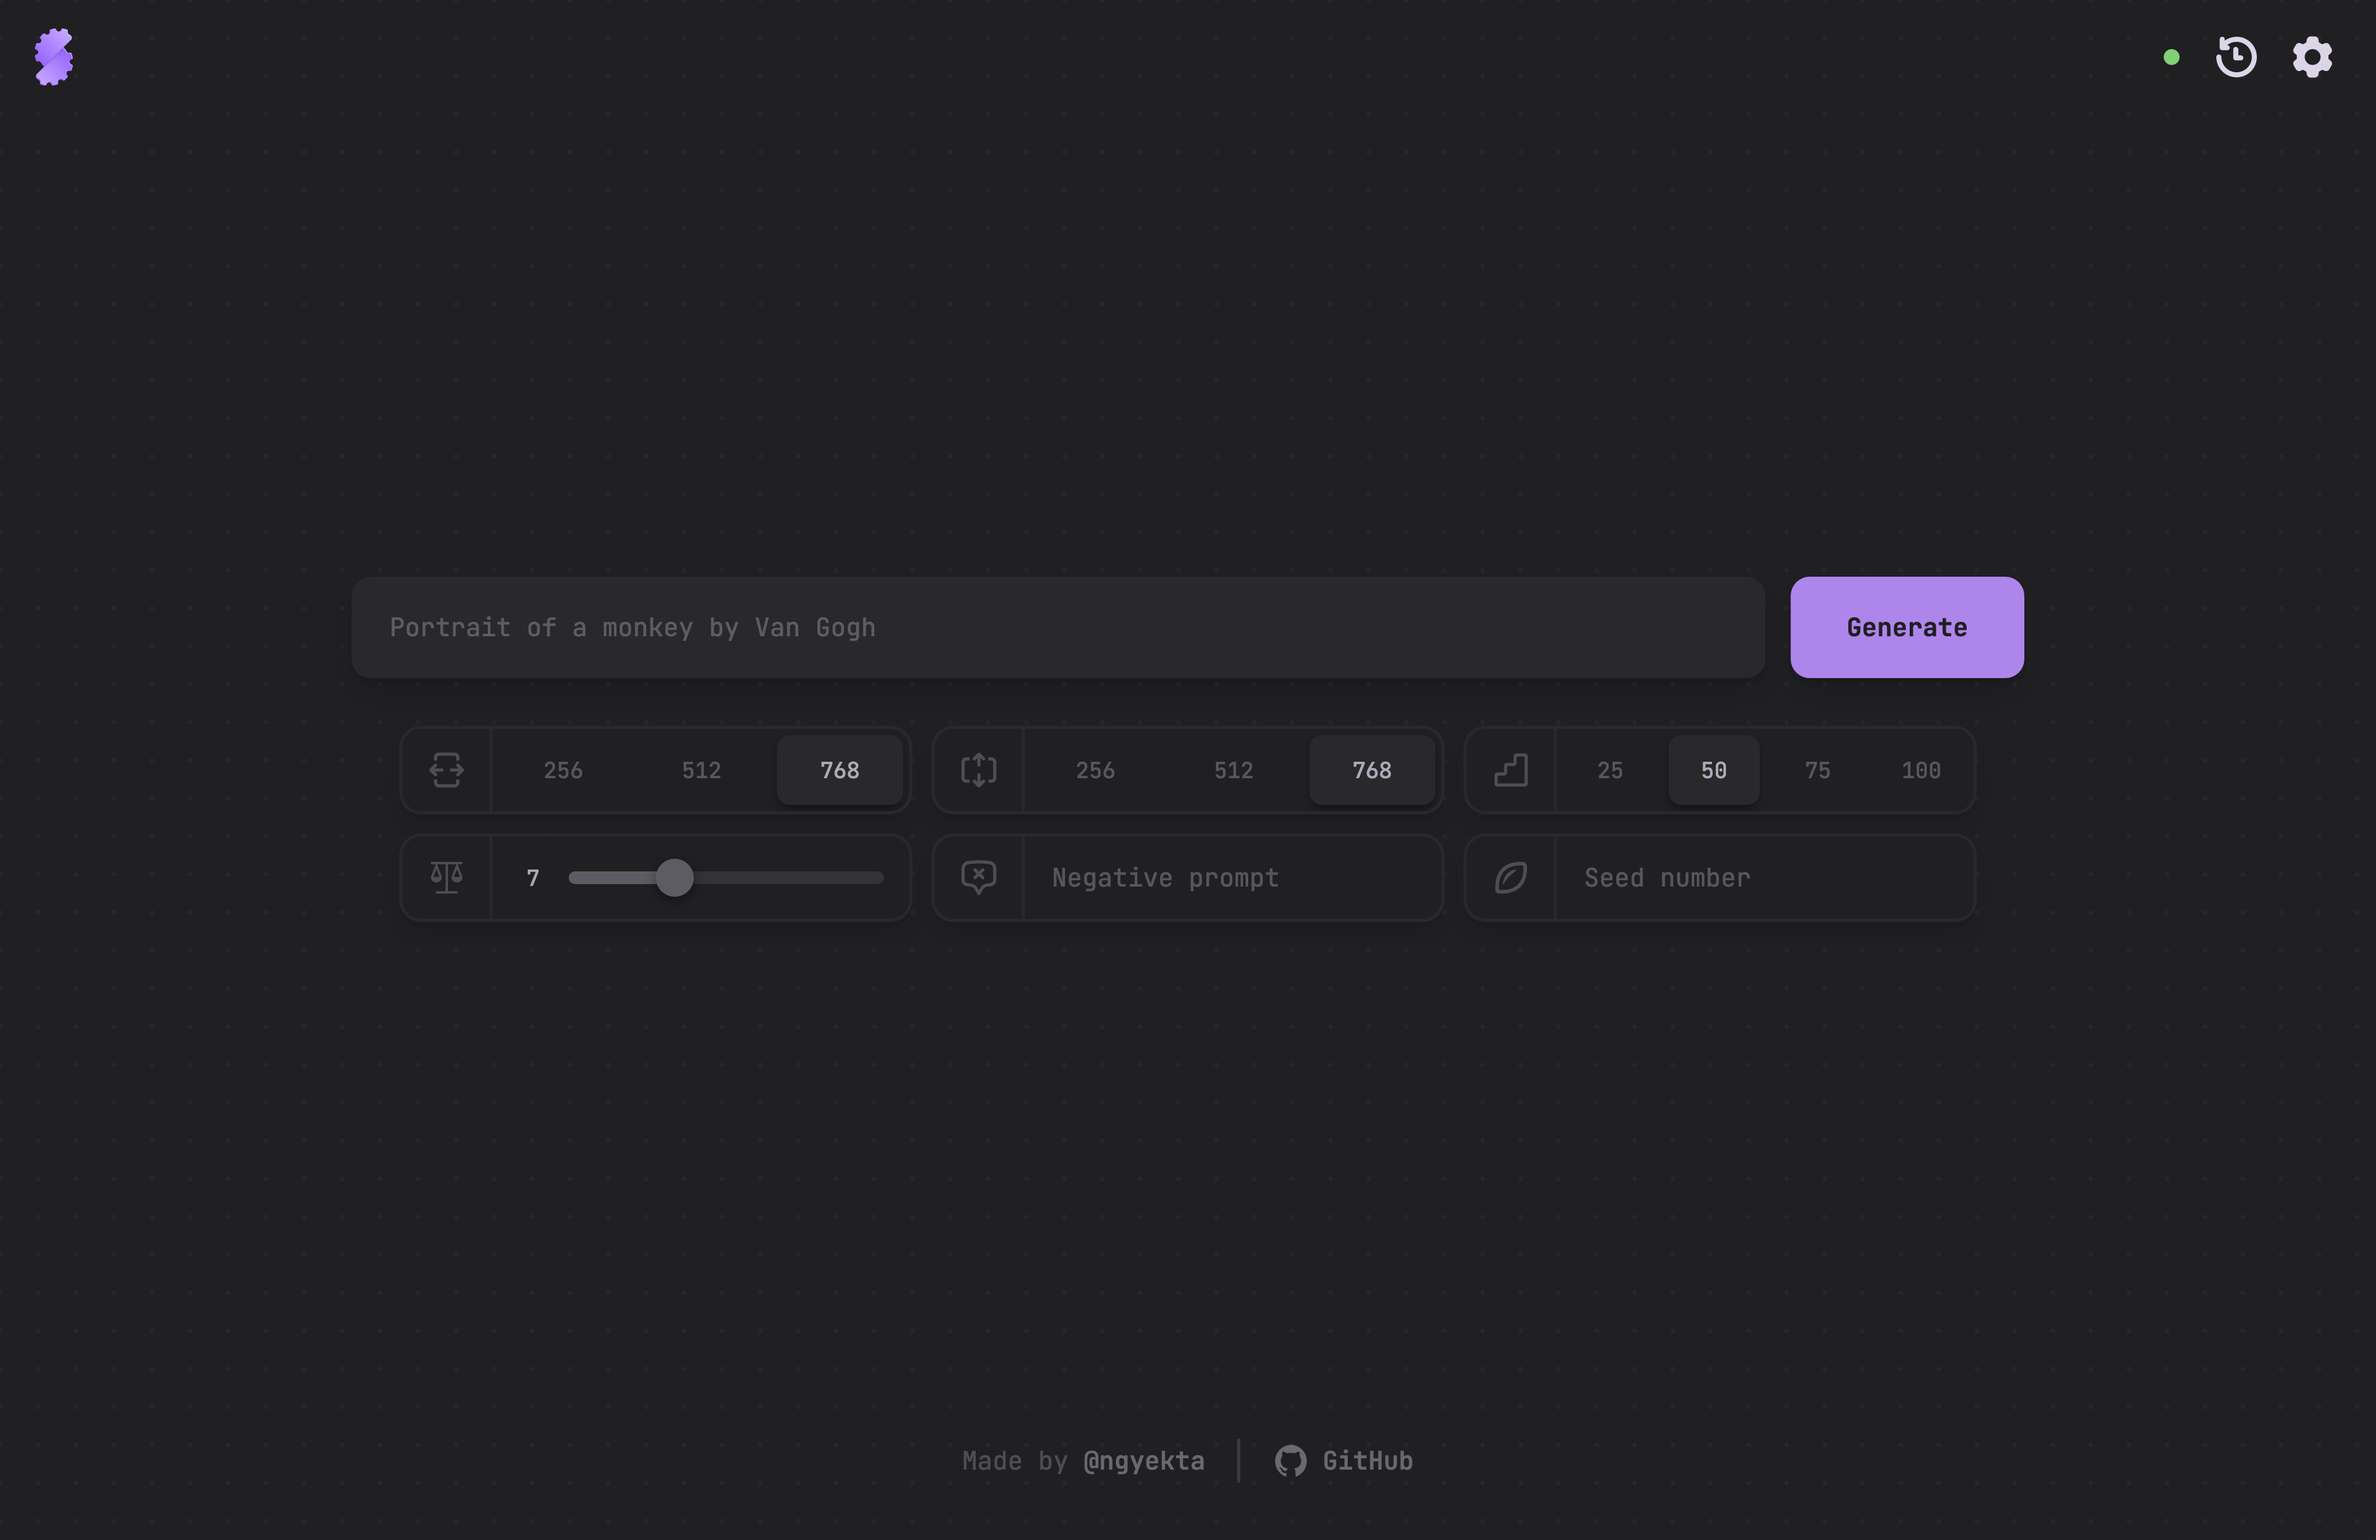
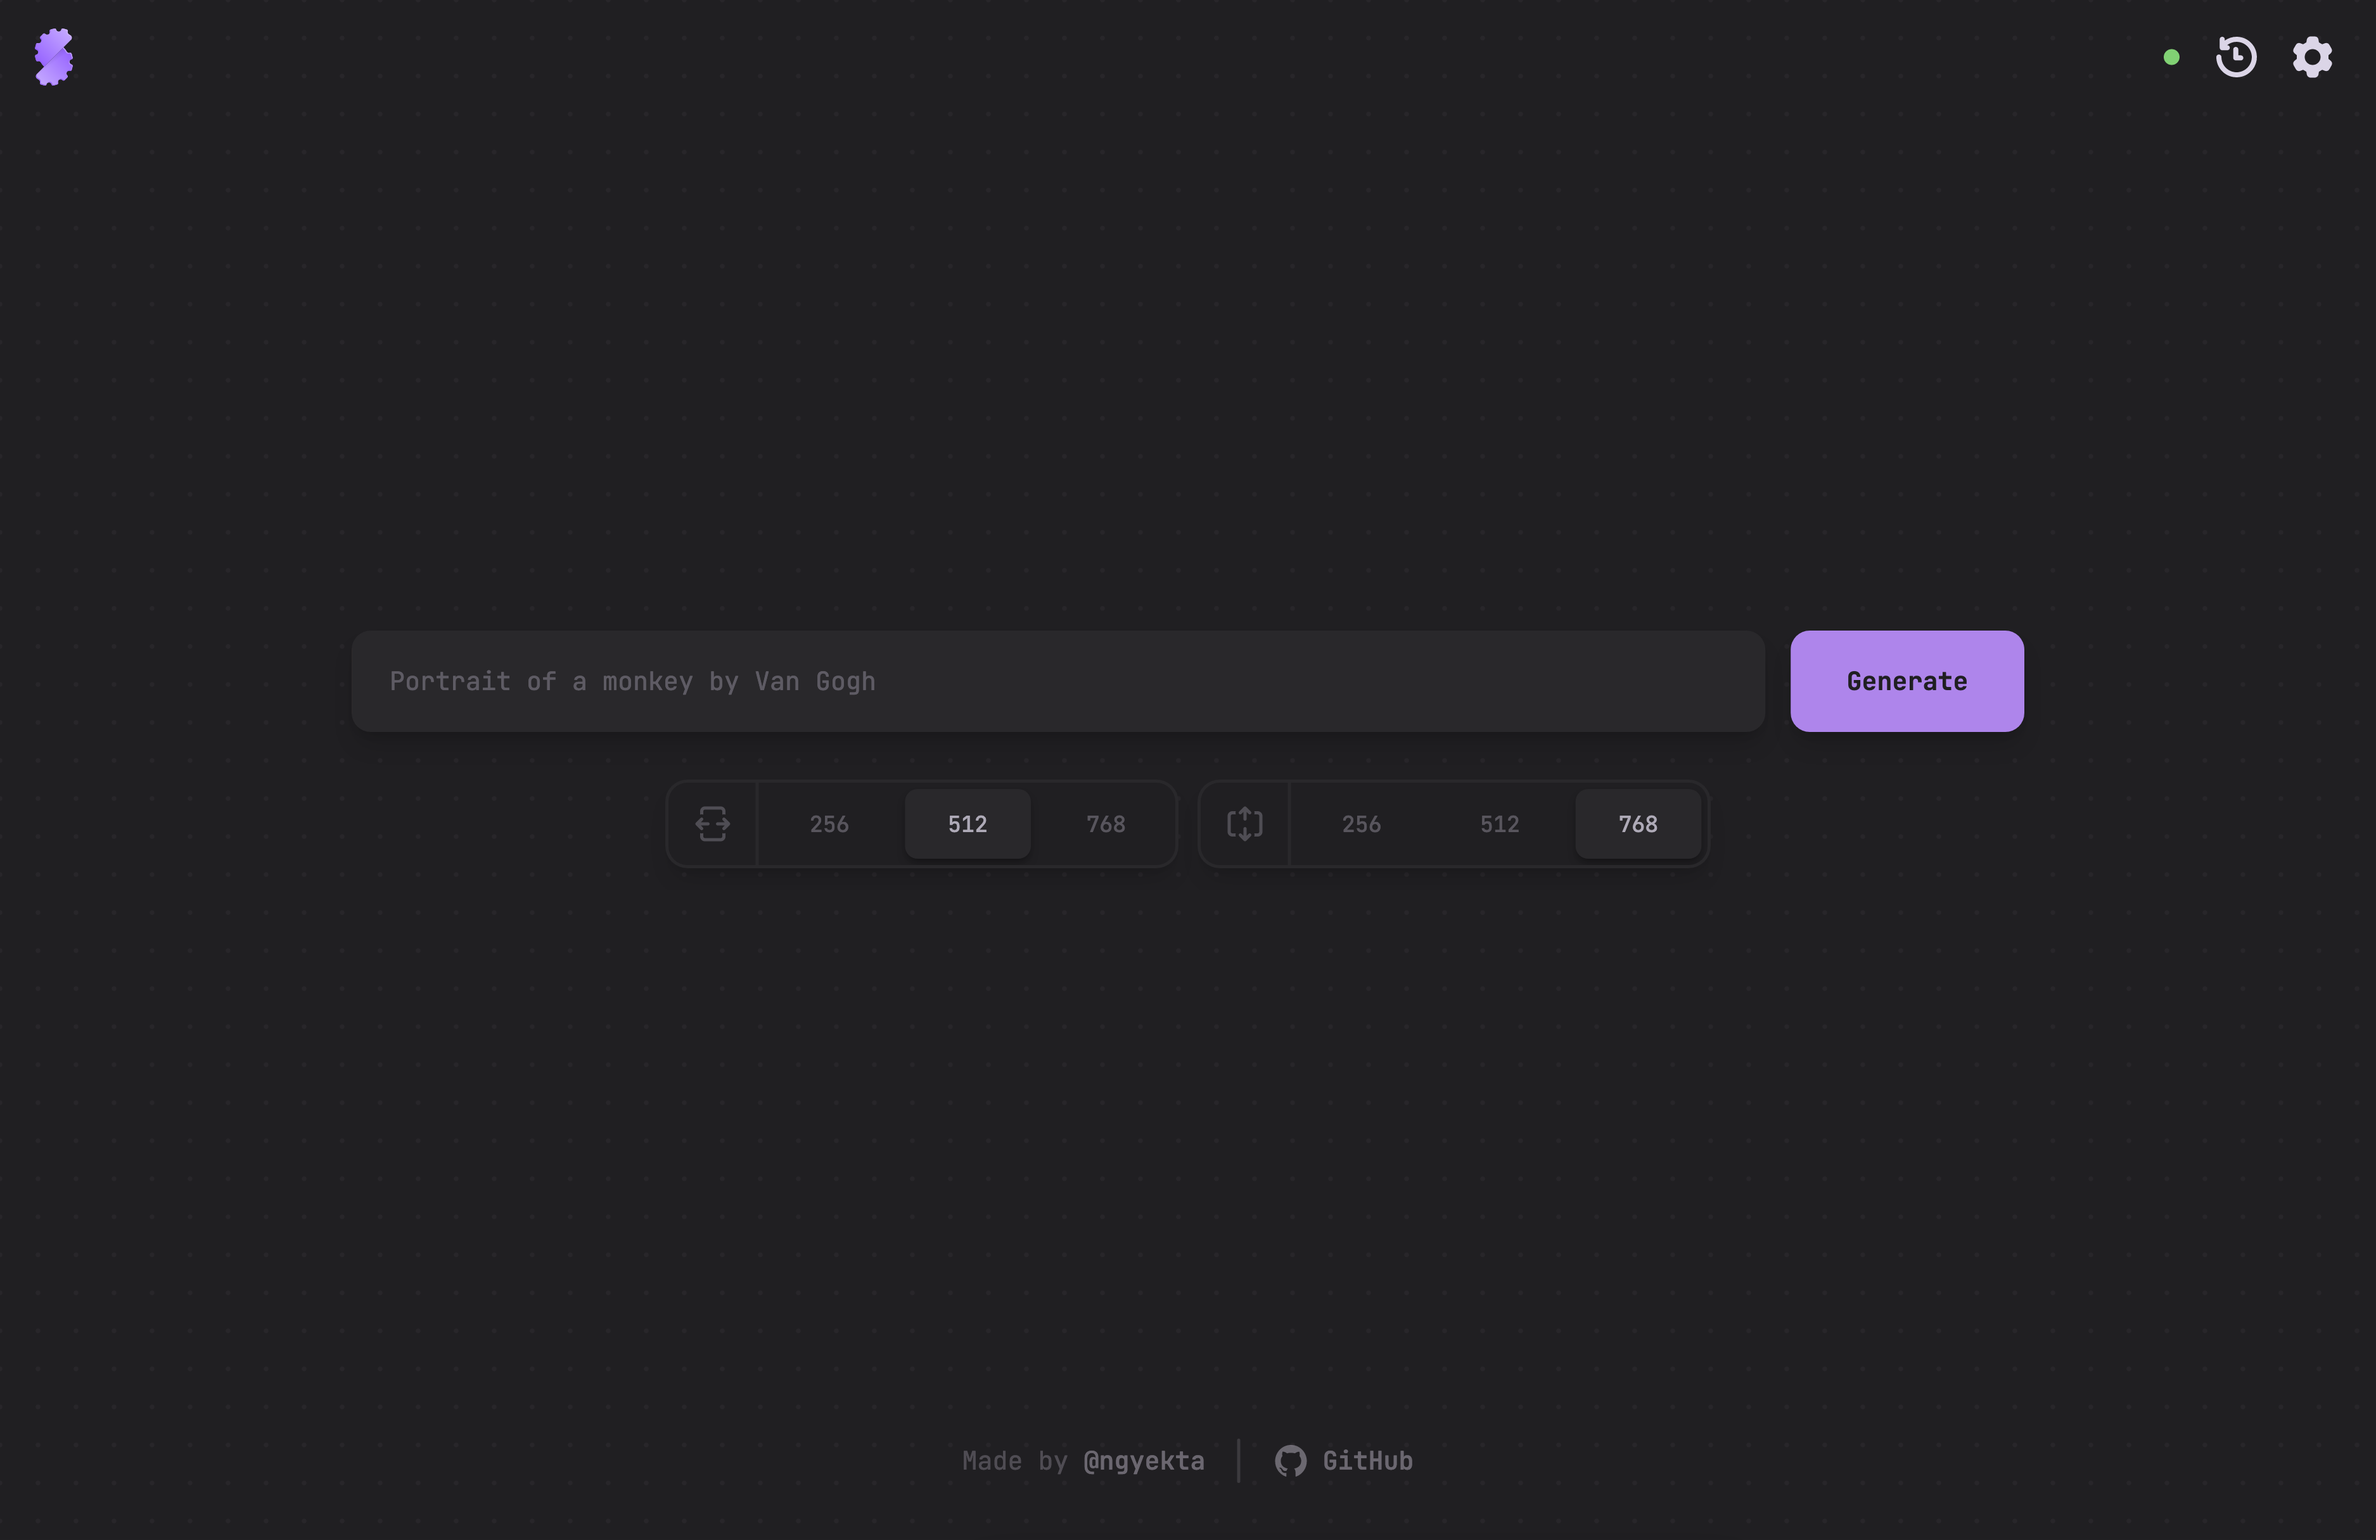
Default mode image on readme

diff --git a/README.md b/README.md
@@ -2,9 +2,13 @@
 
 This is a free and easy to use app for creating AI generated images using [Stable Diffusion](https://github.com/CompVis/stable-diffusion) cogs. It's made with [SvelteKit](https://kit.svelte.dev). For more info on cogs, you can check out: [Replicate](https://replicate.com).
 
-| ![Stablecog Homepage (Advanced mode)](https://stablecog.com/images/homepage.png) |
-| :------------------------------------------------------------------------------: |
-|                    <b>Stablecog Homepage (Advanced Mode)</b>                     |
+| ![Stablecog Homepage (Advanced mode)](https://stablecog.com/images/homepage-advanced.png) |
+| :---------------------------------------------------------------------------------------: |
+|                             <b>Stablecog (Advanced Mode)</b>                              |
+
+| ![Stablecog Homepage (Default mode)](https://stablecog.com/images/homepage.png) |
+| :-----------------------------------------------------------------------------: |
+|                         <b>Stablecog (Default Mode)</b>                         |
 
 The app knows how to communicate with this cog to generate images: [Stable Diffusion Cog](https://github.com/yekta/stable-diffusion-cog). However, as long as your server has the endpoints and the parameters the app uses, it'll work.
 
